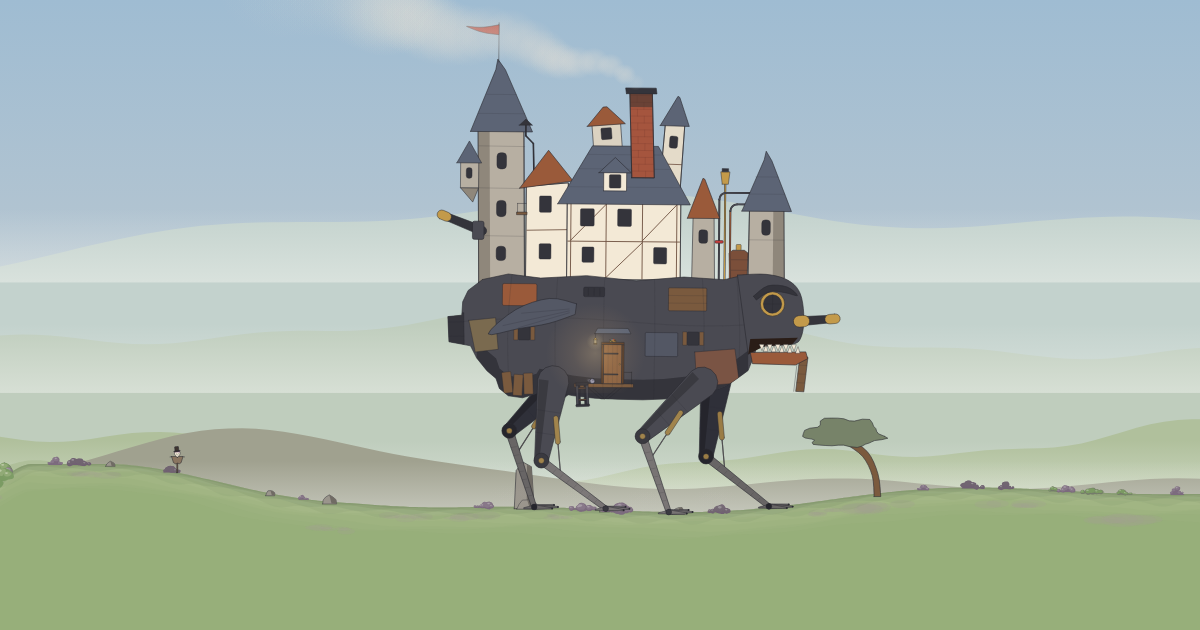
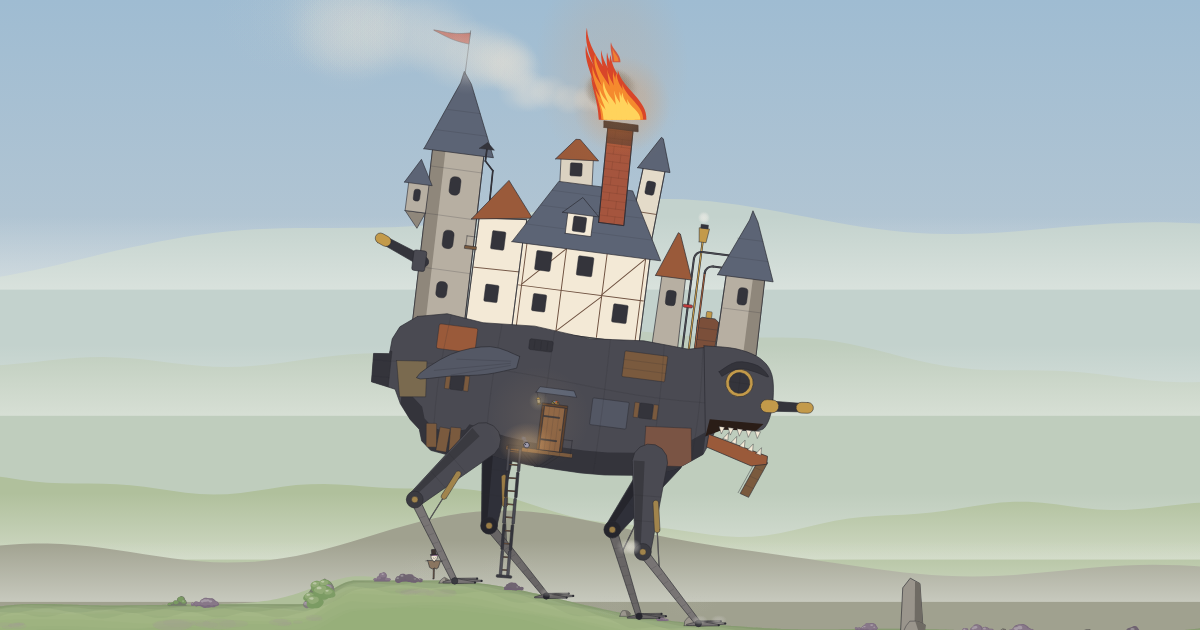
Merry-Go-Round: the share card re-made at the roar (128.05), the whole castle striding with Calcifer's fire out of the chimney

diff --git a/apps/rube/src/shows/versions/merry-go-round/opus55.show.ts b/apps/rube/src/shows/versions/merry-go-round/opus55.show.ts
@@ -4,6 +4,6 @@ export default defineShow({
   title: 'Merry-Go-Round',
   label: 'Opus 5.5',
   about: "Joe Hisaishi's Merry-Go-Round of Life, from Howl's Moving Castle, as a Rube Goldberg machine: a hatter, a curse, and a castle that walks.",
-  still: 133.7,
+  still: 128.05,
   async load() { return (await import('./howl')).performance },
 })
